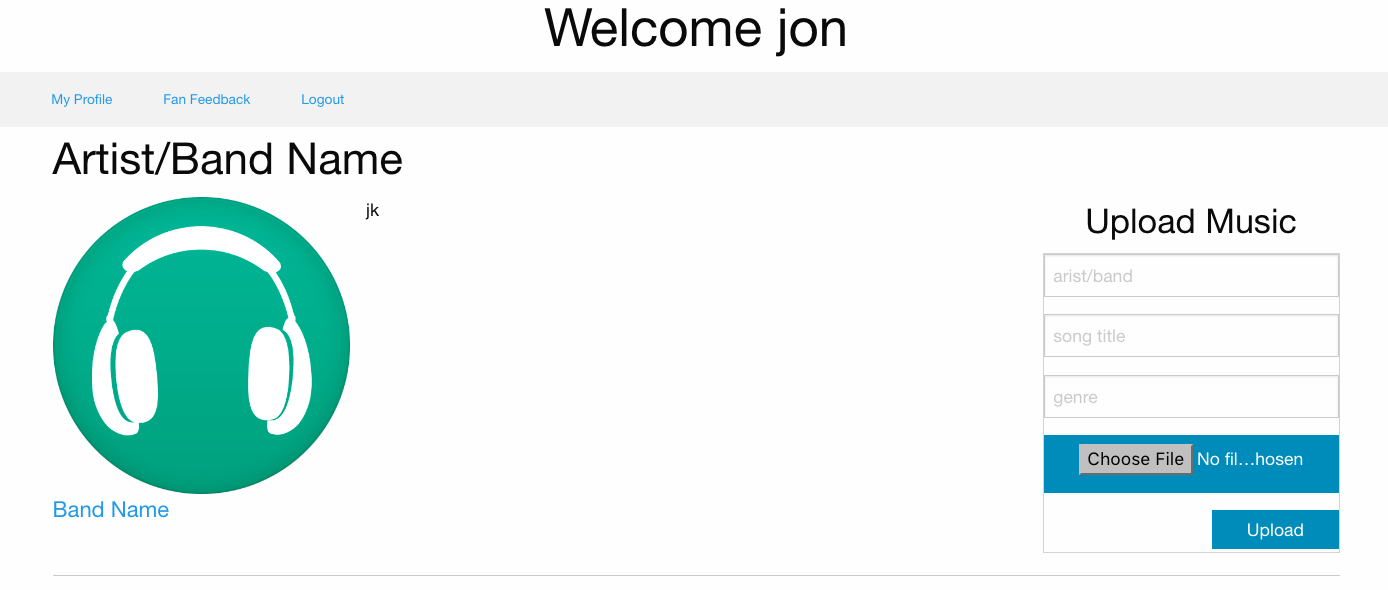
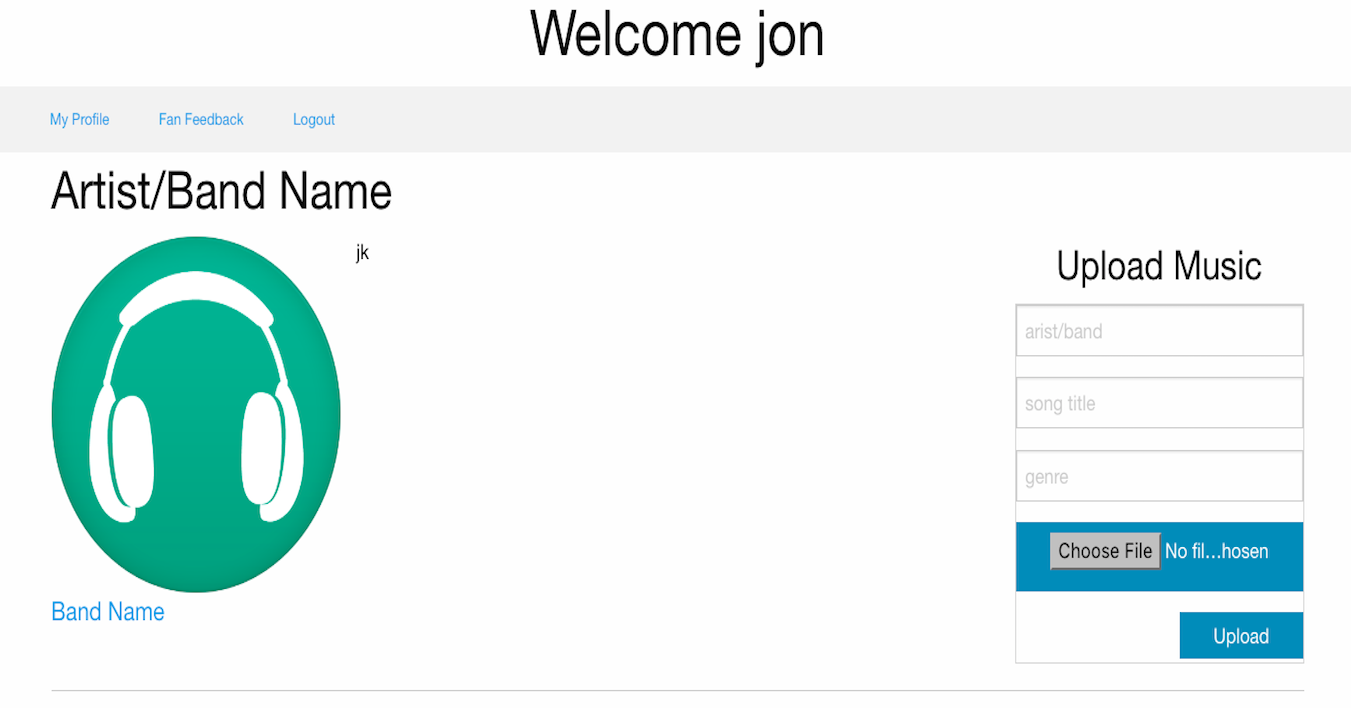
added new photo, resized project photos for uniformity. reformatted intro section to left align.

diff --git a/index.html b/index.html
@@ -23,9 +23,9 @@
     
         <!-- Side-Nav -->
         <ul class="right hide-on-med-and-down"> 
-          <li><a href="mailto:@jonnybl915@gmail.com" class="black-text">Email Me</a></li>
-          <li><a href="https://github.com/jonnybl915" class="black-text">GitHub</a></li>
-          <li><a href="resume/Resume.pdf" class="black-text">Resume</a></li>
+          <li><a target="_blank" href="mailto:@jonnybl915@gmail.com" class="black-text">Email Me</a></li>
+          <li><a target="_blank" href="https://github.com/jonnybl915" class="black-text">GitHub</a></li>
+          <li><a target="_blank" href="resume/Resume.pdf" class="black-text">Resume</a></li>
           <!-- <li><a href="LinkToJavify">Javafy</a></li> -->
         </ul>
 
@@ -50,7 +50,7 @@
         <div class="intro-section row">
 
             <div class="face-photo col s12 m4 offset-l2 center-align">
-              <img src="images/faceSquare.png" class="responsive-img">
+              <img src="images/faceSquare2.png" class="responsive-img">
             </div>
           
 
@@ -100,7 +100,7 @@
                <p class="light black-text">The Yada is a tool with which users can view and generate synopses of articles across the web. My team developed a Google Chrome Extension for viewing and creating these "Yadas" and a website for displaying and sorting them.</p>
               </div>
 
-                 <a href="https://github.com/jonnybl915/theYada" class="github-link">
+                 <a href="https://github.com/jonnybl915/theYada" target="_blank" class="github-link">
                    <div class="icon-block ghicon" >
                      <img src="images/GH.png">
                    </div>
@@ -138,12 +138,12 @@
 
                <h5 class="center black-text">APitunes</h5>
 
-               <p class="light black-text">A platform to help local musicians exhibit their music. Artists can create profiles and upload music for other users. Non-artist users log in to listen and vote on the music.</p>
+               <p class="light black-text">A platform to help local musicians exhibit their music. Artists can create profiles and upload music for other users. Non-artist users can listen to local music and vote on what they listen to.</p>
              </div>
              
            </div>
 
-               <a href="https://github.com/jonnybl915/APitunes" class="github-link">
+               <a href="https://github.com/jonnybl915/APitunes" target="_blank" class="github-link">
                  <div class="icon-block ghicon" >
                  <img src="images/GH.png"> 
                  </div>
@@ -180,7 +180,7 @@
              </div>
            </div>
 
-               <a href="https://github.com/jonnybl915/crudweekend">
+               <a target="_blank" href="https://github.com/jonnybl915/crudweekend">
                  <div class="icon-block ghicon" >
                    <img src="images/GH.png">
                  </div>
@@ -224,7 +224,7 @@
              </div>
            </div>
 
-               <a href="https://github.com/jonnybl915/ConcertTrackerSpring">
+               <a target="_blank" href="https://github.com/jonnybl915/ConcertTrackerSpring">
                  <div class="icon-block ghicon" >
                    <img src="images/GH.png">
                  </div>
@@ -263,7 +263,7 @@
              
            </div>
 
-               <a href="https://github.com/jonnybl915/H2Know">
+               <a target="_blank" href="https://github.com/jonnybl915/H2Know">
                  <div class="icon-block ghicon" >
                    <img src="images/GH.png">
                  </div>
@@ -343,8 +343,8 @@
                       <div class="col s12 center-align">
                           <ul>
                              <li  class="footer-icon"> <a href="mailto:@jonnybl915@gmail.com"> <i class="small material-icons black-text""> <img src="images/mail.png" alt="none"></i> </a> </li>
-                             <li  class="footer-icon"> <a  href="tel:864-350-3102"><i class="small material-icons black-text"><img src="images/phone.png" alt="none"></i></a></li>  
-                             <li  class="footer-icon"> <a  href="https://www.linkedin.com/in/jon-black-3a5894b7"><i class="small material-icons black-text"> <img src="images/in.png" alt="none"></i> </a> </li>
+                             <li  class="footer-icon"> <a href="tel:864-350-3102"><i class="small material-icons black-text"><img src="images/phone.png" alt="none"></i></a></li>  
+                             <li  class="footer-icon"> <a target="_blank" href="https://www.linkedin.com/in/jon-black-3a5894b7"><i class="small material-icons black-text"> <img src="images/in.png" alt="none"></i> </a> </li>
                           </ul>
 
                       </div>
